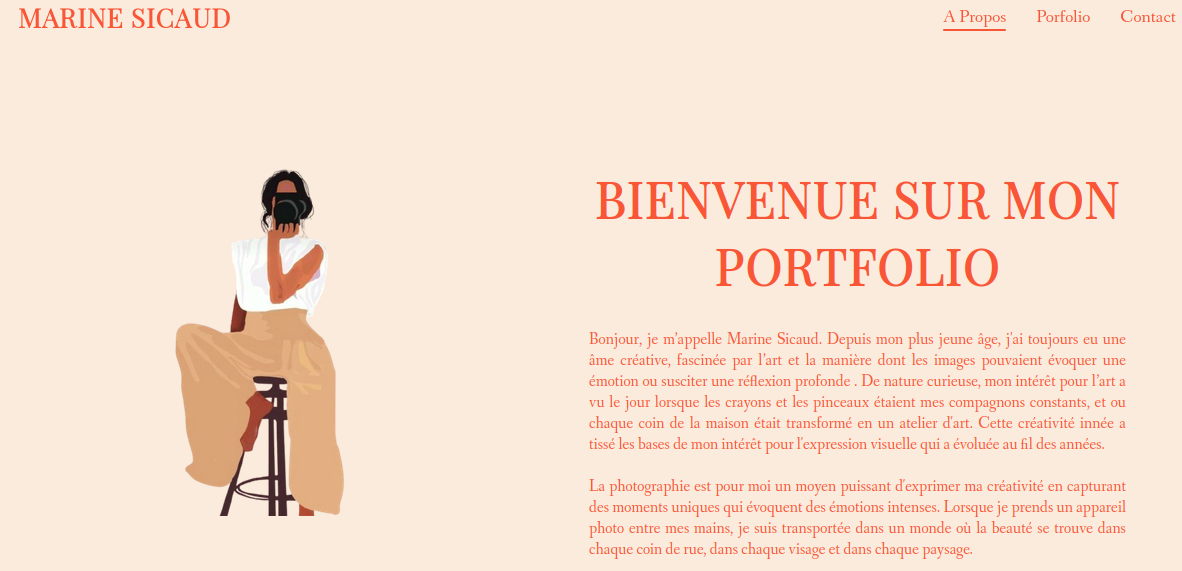
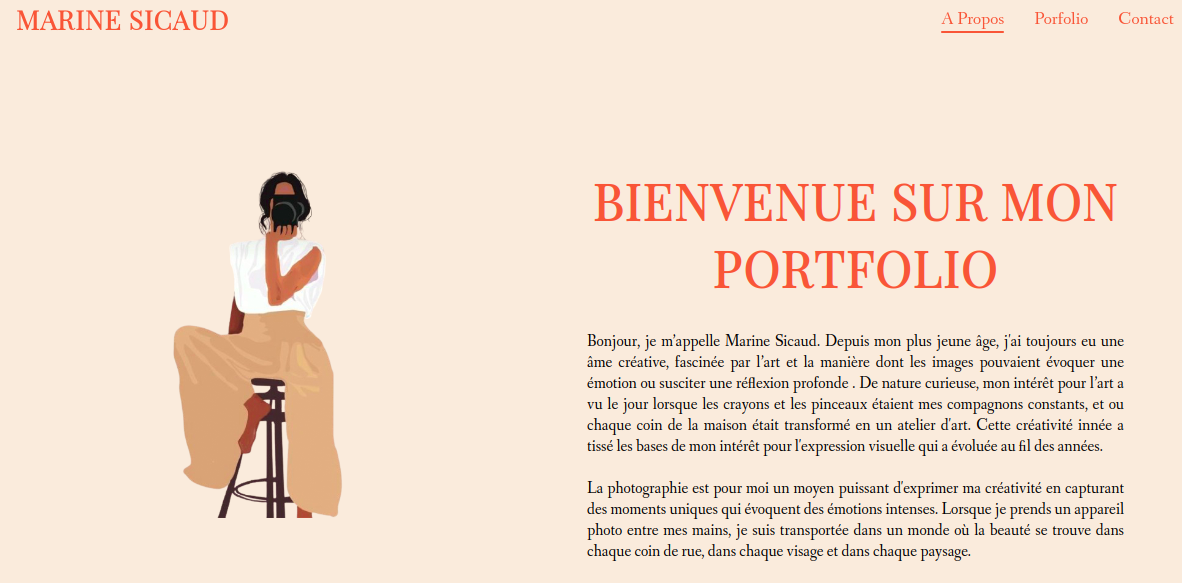
new image + coreection ortographe + poffinage css

diff --git a/js/project.js b/js/project.js
@@ -141,13 +141,13 @@ const graphismeProjects = [
 const autreProjects = [
     {
         id: 0,
-        name: 'Infographie sur le metier de Web Designer',
+        name: 'Infographie sur le métier de Web Designer',
         description: 'Cette infographie offre une représentation visuelle motivante du chemin à suivre pour devenir web designer, guidant les aspirants à travers les étapes clés qui mènent au succès dans ce domaine dynamique et créatif. À mesure que la route se déroule, des points stratégiques marquent les jalons importants, tels que les formations recommandées, les contraintes éventuels que peut rencontrer un web designer et les possibilités d\'évolutions. Des panneaux indicateurs illustrent également des moments d\'apprentissage et de développement professionnel.',
         img: "../../../assets/autre/InforgraphieDesigner1.png"
     },
     {
         id: 1,
-        name: 'Infographie sur les compétance requise pour être web Designer',
+        name: 'Infographie sur les compétences requises pour être web Designer',
         description: 'Cette infographie visuellement captivante constitue une cartographie complète des compétences essentielles pour un web designer moderne, évoquant l\'équilibre subtil entre expertise technique, compétences relationnelles et traits comportementaux. Divisée en trois axes clés, chaque section de l\'infographie offre un aperçu visuel des domaines cruciaux à maîtriser pour exceller dans le domaine du design web.',
         img: "../../../assets/autre/InfographieDesgin2.jpg"
 
@@ -162,7 +162,7 @@ const autreProjects = [
     },
     {
         id: 3,
-        name: 'Moodboard de ma personalitée',
+        name: 'Moodboard de ma personalité',
         description: 'Ce moodboard somptueux incarne l\'essence même de ma personnalité déterminée et orientée vers la réussite, avec une passion manifeste pour le luxe et la haute couture. Les tons beiges et marrons clairs évoquent une palette raffinée et intemporelle, tandis que les éléments soigneusement choisis créent une symphonie visuelle élégante et inspirante. Des typographies soigneusement sélectionnées, renforcent l\'élégant du moodboard. Des citations inspirantes sur la détermination et le succès sont intégrées pour soutenir visuellement mon engagement envers l\'accomplissement professionnel. Nous retrouvons également des visuels de Vogue, symbole de la haute couture, ajoutent une touche de sophistication, qui reflètent mon intérêt pour l\'industrie de la mode et l\'excellence artistique.',
         img: "../../../assets/autre/MyMoodboard.png"
 

diff --git a/css/style.css b/css/style.css
@@ -291,7 +291,7 @@ ul {
     text-align: justify;
     font-size: 16px;
     animation: loadP 1s;
-    animation-delay: 1.2s;
+    animation-delay: 2s;
     opacity: 0;
 }
 
@@ -657,6 +657,10 @@ ul {
     width: 80%;
 }
 
+.center-button{
+    margin-left: 30%;
+}
+
 .left-button, .right-button{
     position: relative;
     background: transparent;
@@ -667,18 +671,18 @@ ul {
 
 .left-button::after {
     content: '';
-    width: 50%;
+    width: 40px;
     height: 1px;
     background: black;
     position: absolute;
-    top: 32%;
+    top: -6%;
     left: 0;
     transform: rotate(135deg);
 }
 
 .left-button::before {
     content: '';
-    width: 50%;
+    width: 40px;
     height: 1px;
     background: black;
     position: absolute;
@@ -689,18 +693,18 @@ ul {
 
 .right-button::after {
     content: '';
-    width: 50%;
+    width: 40px;
     height: 1px;
     background: black;
     position: absolute;
-    bottom: 32%;
+    bottom: -6%;
     right: 0;
     transform: rotate(135deg);
 }
 
 .right-button::before {
     content: '';
-    width: 50%;
+    width: 40px;
     height: 1px;
     background: black;
     position: absolute;

diff --git a/index.html b/index.html
@@ -8,7 +8,7 @@
     <meta name="image" property="og:image" content="https://www.marine-sicaud.fr/assets/marinesciaudphoto.png"/>
     <meta property="og:image:type" content="image/png">
     <meta property="og:image:width" content="1182">
-    <meta property="og:image:height" content="571">
+    <meta property="og:image:height" content="583">
     <meta name="twitter:card" content="summary" />
     <meta name="twitter:title" content="Portfolio Marine Sicaud" />
     <meta name="twitter:image:src" content="https://www.marine-sicaud.fr/assets/marinesciaudphoto.png">

diff --git a/portfolio/graphisme.html b/portfolio/graphisme.html
@@ -48,7 +48,7 @@
 </header>
 
 <main id="photographie">
-    <a href="../portfolio.html" class="left-button"></a>
+    <a href="../portfolio.html" class="left-button center-button"></a>
     <div class="photographie-container">
         <img src="../assets/graphisme/affiche_paire_addi.jpg" alt="" class="photographie-element">
         <a href="project-pages/graphisme/1.html" class="responcive-link"></a>

diff --git a/portfolio/photographie.html b/portfolio/photographie.html
@@ -48,7 +48,7 @@
 </header>
 
 <main id="photographie" >
-    <a href="../portfolio.html" class="left-button"></a>
+    <a href="../portfolio.html" class="left-button center-button"></a>
     <div class="photographie-container">
         <img src="../assets/photo/light.jpg" alt="" class="photographie-element">
         <a href="project-pages/photographie/1.html" class="responcive-link"></a>

diff --git a/portfolio/autre.html b/portfolio/autre.html
@@ -49,7 +49,7 @@
 
 <main id="autre">
 
-    <a href="../portfolio.html" class="left-button"></a>
+    <a href="../portfolio.html" class="left-button center-button"></a>
 
         <div class="photographie-container">
             <img src="../assets/autre/InforgraphieDesigner1.png" alt="" class="photographie-element zoom">

diff --git a/js/index.js b/js/index.js
@@ -23,7 +23,7 @@ setTimeout(() => {
 
 setTimeout(() => {
     paragraphePresentation.style.opacity = '1'
-}, 2100)
+}, 2900)
 
 function loadAnimation(pourcentage){
     if (pourcentage >= 43) {
